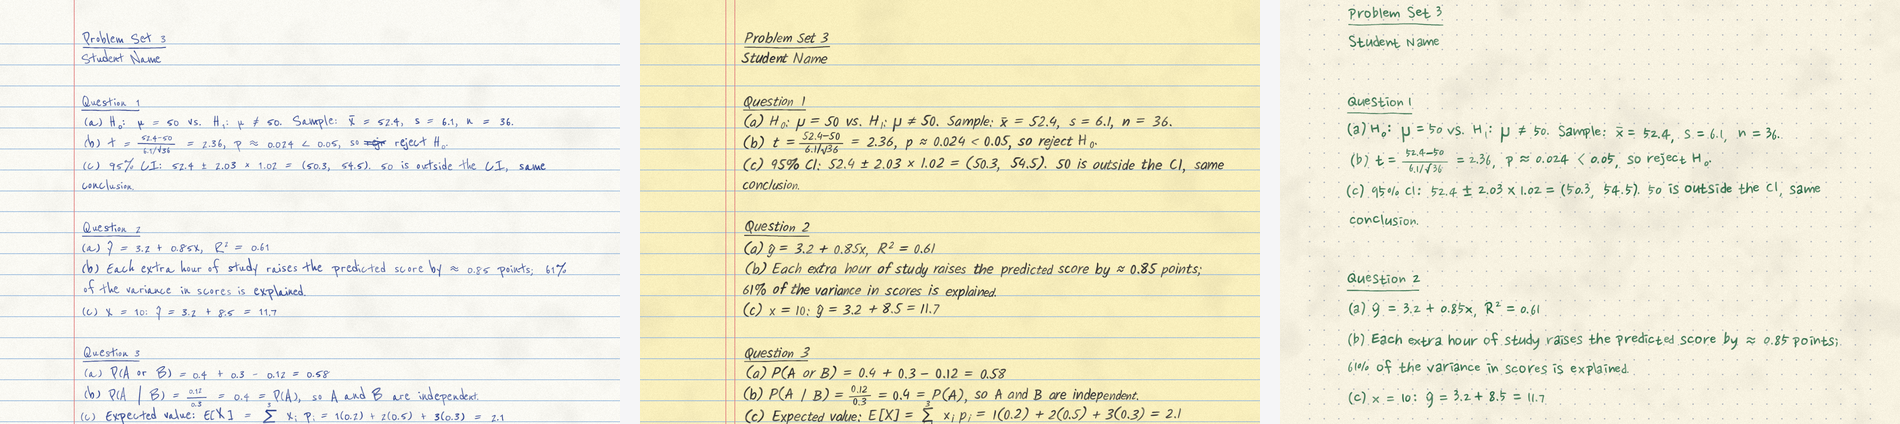
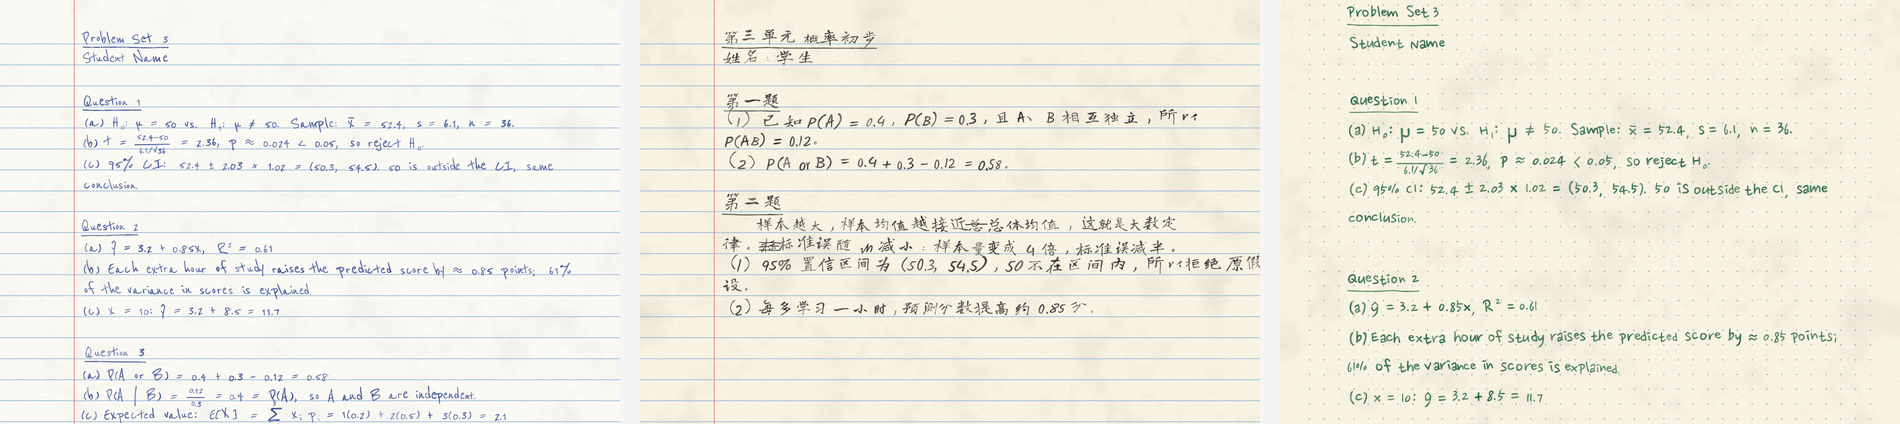
README demo: show Chinese handwriting

diff --git a/README.md b/README.md
@@ -6,7 +6,7 @@
 Drop a Word, PDF or text file; get pages that look hand-written with a ballpoint pen.
 Runs entirely offline.
 
-![三种不同设置的效果](docs/demo.png)
+![英文、中文和不同纸笔设置的效果](docs/demo.png)
 
 ## 下载
 
